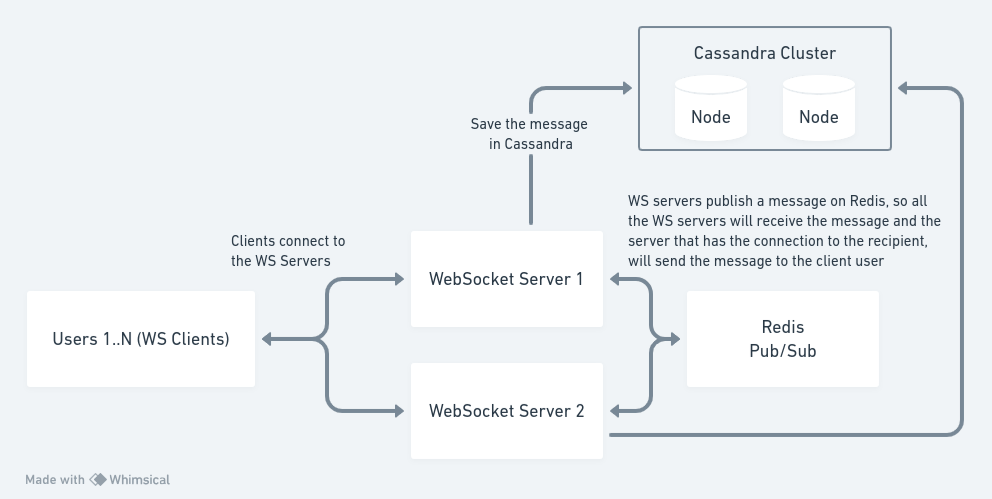
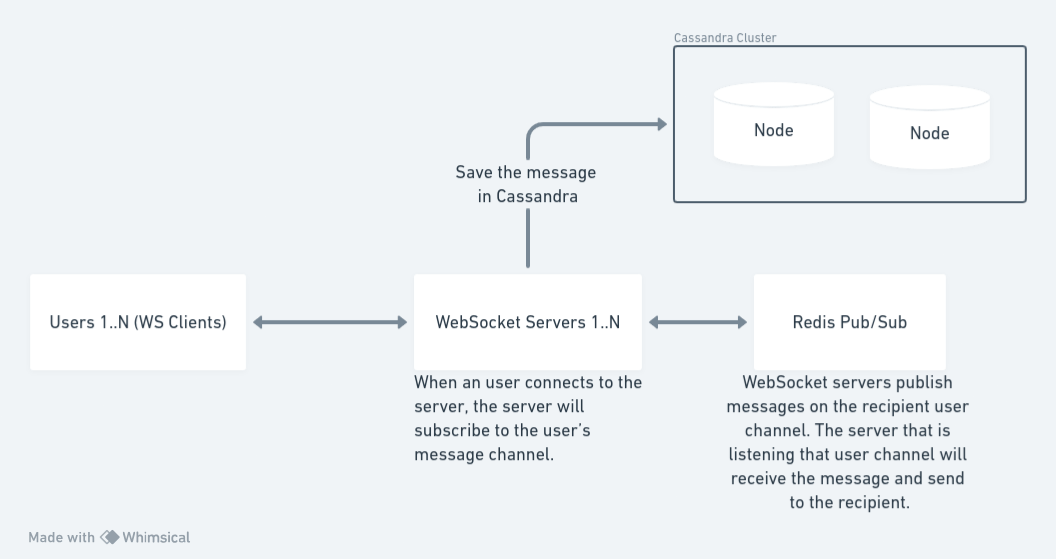
changed the way the topics work on redis and how the app subscribe to this topics

diff --git a/server.js b/server.js
@@ -18,12 +18,11 @@ const cassandraClient = new CassandraClient({
 await cassandraClient.connect()
 
 const REDIS_SERVER = "redis://localhost:6379";
-const WEB_SOCKET_PORT = Number(process.env.WEB_SOCKET_PORT || 3000);
 
 const redisClient = createRedisClient(REDIS_SERVER)
 redisClient.on('error', err => console.log('Redis Client Error', err))
 
-const REDIS_NOTIFICATIONS_TOPIC = 'app:notifications'
+const REDIS_NOTIFICATIONS_TOPIC_PREFIX = 'app:notifications'
 
 const redisSubscriber = redisClient.duplicate();
 await redisSubscriber.connect();
@@ -31,50 +30,47 @@ await redisSubscriber.connect();
 const redisPublisher = redisClient.duplicate();
 await redisPublisher.connect();
 
-const wsConnections = new Map()
-
-await redisSubscriber.subscribe(REDIS_NOTIFICATIONS_TOPIC, message => {
-  const data = JSON.parse(message)
-  const wsClient = wsConnections.get(Number(data.userId))
-
-  if (wsClient && wsClient.readyState === WebSocket.OPEN) {
-    console.log(data.content)
-    wsClient.send(data.content);
-  }
-});
-
+const WEB_SOCKET_PORT = Number(process.env.WEB_SOCKET_PORT || 3000);
 const wsServer = new WebSocketServer({ port : WEB_SOCKET_PORT });
  
-wsServer.on('connection', function connection(ws, req) {
+wsServer.on('connection', async function connection(ws, req) {
   const userId = Number(req.headers.userid)
-  wsConnections.set(userId, ws)
+  const topicName = `${REDIS_NOTIFICATIONS_TOPIC_PREFIX}:${userId}`
 
-  ws.on('close', () => {
+  console.log('new connection', userId) 
+
+  await redisSubscriber.subscribe(topicName, message => {
+    console.log('message:', message)
+    if (ws.readyState === WebSocket.OPEN) {
+      ws.send(message);
+    }
+  });
+
+  ws.on('close', async () => {
     console.log('connection closed', userId)
-    wsConnections.delete(userId)
+    await redisSubscriber.unsubscribe(topicName)
   })
 
-  ws.on('error', () => {
+  ws.on('error', async () => {
     console.log('some error happened')
-    wsConnections.delete(userId)
+    await redisSubscriber.unsubscribe(topicName)
   })
 
   ws.on('message', async message => {
     const data = JSON.parse(message)
+    const recipientId = Number(data.recipientId)
+
     await cassandraClient.execute('INSERT INTO messages (id, authorId, recipientId, content, createdAt) VALUES (?, ?, ?, ?, ?)', [
       randomUUID(),
       userId,
-      Number(data.recipientId),
+      recipientId,
       data.content,
       new Date()
     ], {
       prepare: true
     })
-    await redisPublisher.publish(REDIS_NOTIFICATIONS_TOPIC, JSON.stringify({
-      userId: data.recipientId,
-      content: data.content
-    }))
-  })
 
-  console.log('new connection', userId) 
+    const recipientTopic = `${REDIS_NOTIFICATIONS_TOPIC_PREFIX}:${recipientId}`
+    await redisPublisher.publish(recipientTopic, data.content)
+  })
 });

diff --git a/ws-clients.js b/ws-clients.js
@@ -7,8 +7,8 @@ function getIntegerInRange(min, max) {
   )
 }
 
-const NUMBER_OF_WS_CLIENTS = 1000
-const NUMBER_OF_MESSAGES_SENT_BY_WS_CLIENT = 1000
+const NUMBER_OF_WS_CLIENTS = 10_000
+const NUMBER_OF_MESSAGES_SENT_PER_WS_CLIENT = 10
 
 for (let i = 1; i <= NUMBER_OF_WS_CLIENTS; i++) {
   const wsClient = new WebSocket('ws://localhost:300'+getIntegerInRange(0,2), 'ws', {
@@ -18,14 +18,10 @@ for (let i = 1; i <= NUMBER_OF_WS_CLIENTS; i++) {
   })
 
   wsClient.on('open', async () => {
-    for (let j = 0; j < NUMBER_OF_MESSAGES_SENT_BY_WS_CLIENT; j++) {
-      // according to my tests, 2 cassandra nodes can handle roughly 8000 requests per second
-      // so we have 1000 clients and all of then send messages at the same time
-      // which means, if each client sent 8 messages, it would be 8000 messages at the same time,
-      // that is why we sleep for a second
-      if (j % 8 === 0) {
-        await sleep(1000)
-      }
+    for (let j = 0; j < NUMBER_OF_MESSAGES_SENT_PER_WS_CLIENT; j++) {
+      // With 10k users sending messages at the same time, Cassandra will not be able to handle
+      // this quantity of requests (it is possible to add more nodes to the cluster) thats why we sleep for 1 sec
+      await sleep(1000)
       const recipientId = getIntegerInRange(1, NUMBER_OF_WS_CLIENTS+1)
       wsClient.send(JSON.stringify({
         recipientId,
